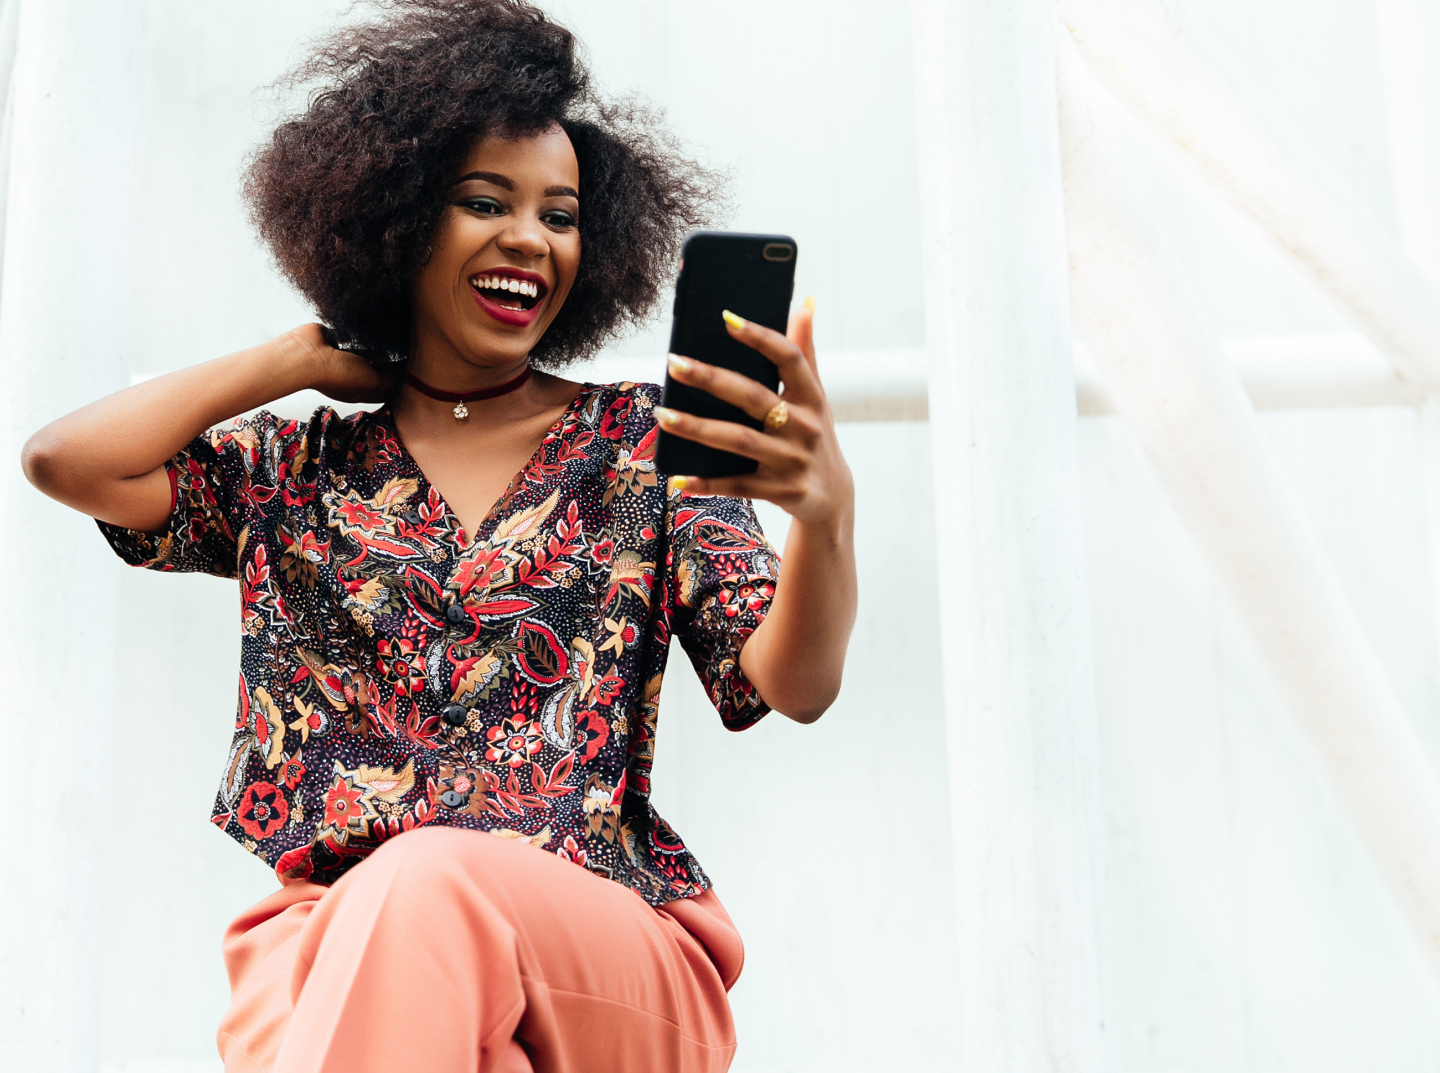
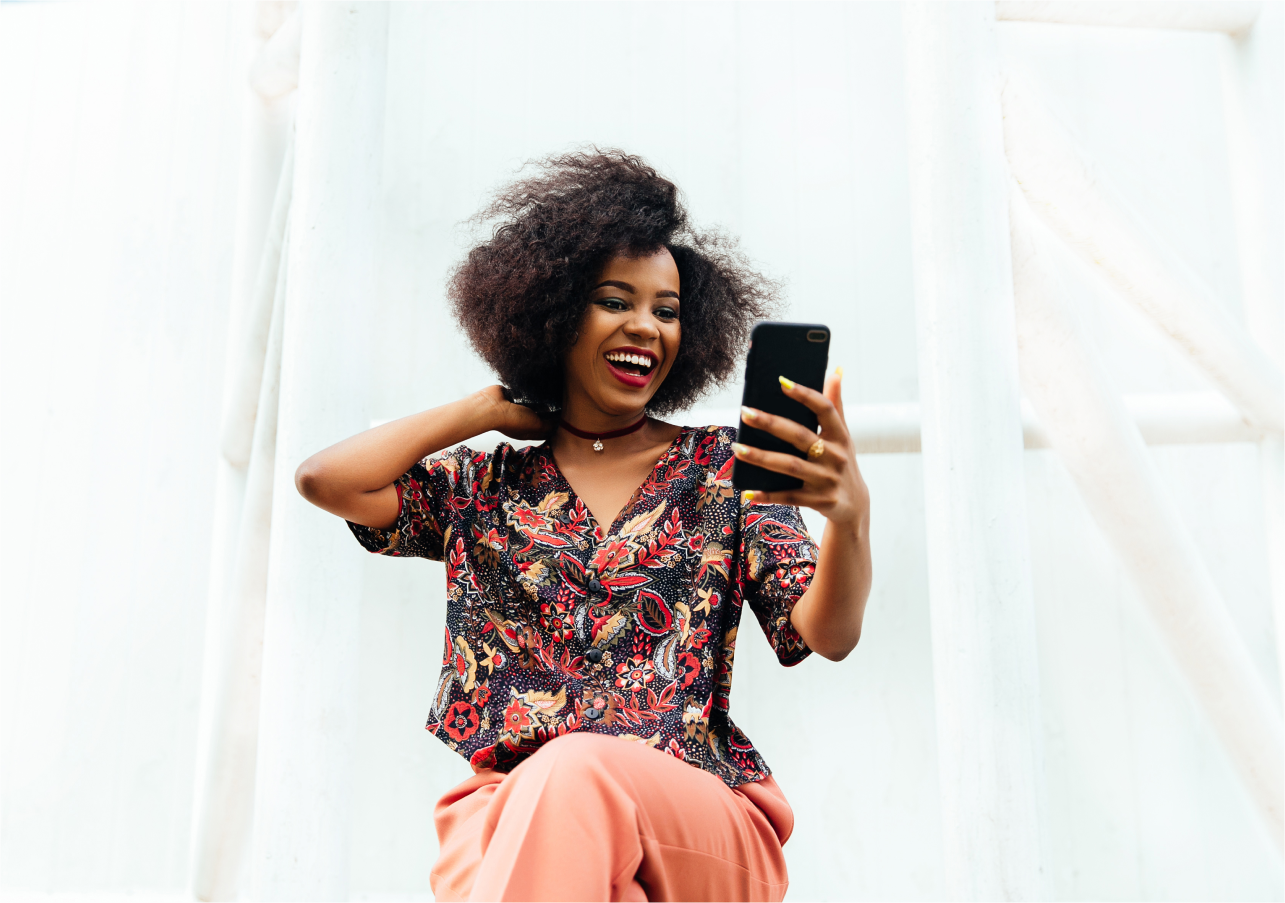
Final Commit

diff --git a/assets/css/index.css b/assets/css/index.css
@@ -25,17 +25,15 @@ body {
 }
 
 .header {
-    overflow: hidden;
     position: absolute;
-    /* left: 50%; */
     background-color: transparent;
-    min-height: 10vh;
+    height: 10vh;
     display: flex;
     justify-content: space-between;
-    transition: height 2s;
     width: 80%;
     border-bottom: 1px solid #9f9f9f;
     align-self: center;
+    z-index: 1000;
 }
 
 .header .res-nav {
@@ -48,13 +46,21 @@ body {
 }
 
 .title {
+    display: flex;
+    align-items: center
+}
+
+.title img {
+    height: 2em;
+}
+.title  h5{
     color: var(--primary-color);
     font-size: 24px;
-    margin: 1rem;
+    margin: 1rem 0.3rem !important;
     font-weight: 400
 }
 
-.title span {
+.title h5 span {
     color: #000000;
 }
 
@@ -72,14 +78,19 @@ body {
     display: none;
 }
 
+
+
 @media screen and (max-width: 600px) {
+    .header {
+        flex-direction: column
+    }
     .header .res-nav {
         display: none;
     }
     .header a.icon {
         float: right;
         display: block;
-        color: #ffffff
+        color: #000000
     }
 }
 
@@ -94,10 +105,13 @@ body {
     }
     .header .res-nav.responsive {
         float: none;
-        display: block;
+        display: flex;
+        flex-direction: column;
+        justify-content: space-around;
         text-align: left;
         animation-name: fadeIn;
         animation-duration: 0.6s;
+        min-height: 60vh;
     }
 }
 
@@ -109,14 +123,20 @@ body {
 }
 
 .banner {
-    height: 70vh;
+    height: 75vh;
     background: url('../img/7014.png');
+    background-position: -80% 55%; 
+}
+
+.banner.responsive {
+    background: #f8f8f8
 }
 
 @media screen and (max-width: 600px) {
     .banner {
-        background-position: 20% 0%;
-        /* transform: scaleX(-1); */
+        background-position: 50% 30%; 
+        transform: scaleX(-1);
+
     }
 }
 
@@ -127,6 +147,7 @@ body {
     text-decoration: none;
     display: block;
     height: 2rem;
+    text-align: center
 }
 
 .nav-btn.active {
@@ -137,7 +158,7 @@ body {
     width: 30vw;
     position: absolute;
     top: 30%;
-    right: 2em;
+    right: 10%;
 }
 
 .headline h3 {
@@ -167,7 +188,7 @@ body {
         position: relative;
         top: auto;
         right: auto;
-        padding: 0.4em;
+        padding: 2em 0;
         display: flex;
         align-items: center;
         flex-direction: column
@@ -176,14 +197,17 @@ body {
     .headline p, .headline h3, .headline a {
         width: 80%
     }
+
+    .nav-btn.active {
+        border-bottom: none;
+    }
 }
 
 .client {
     display: flex;
     width: 100%;
-    padding: 1em;
+    padding: 2em 0;
     background: #f8f8f8
-    /* justify-content: space-between */
 }
 
 .client-row {
@@ -199,6 +223,9 @@ body {
 .client-row.first {
     width: 10%
 }
+.client-row.first p {
+    color: #575757
+}
 .client-row.last{
     width: 15%
 }
@@ -206,10 +233,10 @@ body {
 @media screen and (max-width: 600px) {
     .client-row, .client-row.first, .client-row.last {
         width: 100%;
-        margin: 0.5rem 0
+        margin: 1rem 0
     }
     .client {
-        width: 90%;
+        width: 100%;
         flex-direction: column;
         align-self: center;
     }
@@ -219,17 +246,19 @@ body {
     display: flex;
     align-items: center;
     flex-direction: column;
-    width: 100%
+    width: 100%;
+    margin: 2em 0;
 }
 
 .features-title {
     color: var(--primary-color);
-    margin: 1em 0;
+    margin: 0.5em 0;
 }
 
 .features h3 {
     color: var(--dark-grey);
-    margin: 1em 0;
+    margin: 0.2em 0 1em 0;
+    font-size: 30px
 }
 
 .features-list {
@@ -257,7 +286,8 @@ body {
 .feature-item p {
     line-height: 1.6;
     text-align: center;
-    margin: 1em 0
+    margin: 1em 0;
+    color: #797979
 }
 
 .feature-item a {
@@ -268,16 +298,25 @@ body {
     .features-list {
         flex-direction: column;
     }
+    .features h3 {
+        font-size: 20px
+    }
 }
 
-.grey {
-    background: #f8f8f8
+
+.contact-container {
+    display: flex;
+    flex-direction: column;
+    align-items: center;
+    width: 100%;
+    background: #f8f8f8;
+    padding: 2em 0 0 0;
 }
+
 .contact {
     display: flex;
     width: 80%;
     padding: 1em;
-    border-bottom: 1px solid #9f9f9f;
 }
 
 .contact-row {
@@ -308,15 +347,17 @@ body {
 }
 
 .footer {
-    height: 3em;
+    height: 5em;
     display: flex;
     justify-content: center;
     align-items: center;
+    background: #f8f8f8
 }
 
 .footer p {
     color: #adadad;
     font-size: 14px;
+    width: 80%
 }
 
 .orange {
@@ -334,17 +375,30 @@ body {
 
 input {
     border: 1px solid #bbbbbb;
-    height: 3em;
+    height: 3.5em;
     width: 70%;
-    border-top-left-radius: 0.2em;
-    border-bottom-left-radius: 0.2em;
+    border-top-left-radius: 0.4em;
+    border-bottom-left-radius: 0.4em;
+    padding: 0 1.2em;
+    background: transparent;
 }
 
 .input-container button {
     border: 1px solid var(--primary-color);
-    border-top-right-radius: 0.2em;
-    border-bottom-right-radius: 0.2em;
+    border-top-right-radius: 0.4em;
+    border-bottom-right-radius: 0.4em;
     background: var(--primary-color);
     color: #ffffff;
-    width: 6em
+    width: 9em
+}
+
+.social {
+    margin: 2em 1em;
+    width: 80%
+}
+
+.divider {
+    border-color: #f8f8f8;
+    width: 80%;
+    align-self: center
 }

diff --git a/index.html b/index.html
@@ -12,9 +12,12 @@
     <div class="main-container">
         <div class="container">
         <div class="header" id="header">
-            <h5 class="title">
-                Gravii.<span>ng</span>
-            </h5>
+            <div class="title">
+                <img src="assets/img/Rectangle.png" alt="logo">
+                <h5>
+                    Gravii.<span>ng</span>
+                </h5>
+            </div>
             <div class="res-nav" id="mobile-nav">
                 <a class="nav-btn active">Product</a>
                 <a class="nav-btn">About Us</a>
@@ -25,7 +28,7 @@
             </a>
         </div>
     </div>
-        <div class="banner">
+        <div class="banner" id="banner">
 
         </div>
         
@@ -37,7 +40,7 @@
         </div>
         <div class="client">
             <div class="client-row first">
-                <p>Trusted by:</p>
+                <p>Trusted by</p>
             </div>
             <div class="client-row">
                 <img src="./assets/img/skype.png" alt="Skype">
@@ -79,10 +82,15 @@
             </div>
         </div>
 
-        <div class="container grey">
+        <div class="contact-container">
             <div class="contact">
                 <div class="contact-row">
-                    <h3 class="title">Gravii. <span>ng</span></h3>
+                    <div class="title">
+                        <img src="assets/img/Rectangle.png" alt="logo">
+                        <h5>
+                            Gravii.<span>ng</span>
+                        </h5>
+                    </div>
                 </div>
                 <div class="contact-row">
                     <h5>Get Started</h5>
@@ -106,8 +114,13 @@
                     </div>
                 </div>
             </div>
+            <div class="social">
+                <img src="assets/img/instagram.png" alt="Instagram" >
+                <img src="assets/img/facebook.png" alt="Facebook" >
+                <img src="assets/img/twitter.png" alt="Twitter" >
+            </div>
+            <hr class="divider">
         </div>
-
         <div class="footer grey">
             <p>Copyright 2018. <span class="orange">Gravii.</span><span class="black">ng</span>. All rights reserved</p>
         </div>

diff --git a/assets/js/index.js b/assets/js/index.js
@@ -1,8 +1,11 @@
 const toggleDropdown = () => {
     const x = document.getElementById("mobile-nav");
+    const header = document.getElementById("banner")
     if (x.className === "res-nav") {
       x.className += " responsive";
+      header.className += " responsive";
     } else {
       x.className = "res-nav";
+      header.className = "banner"
     }
   }
